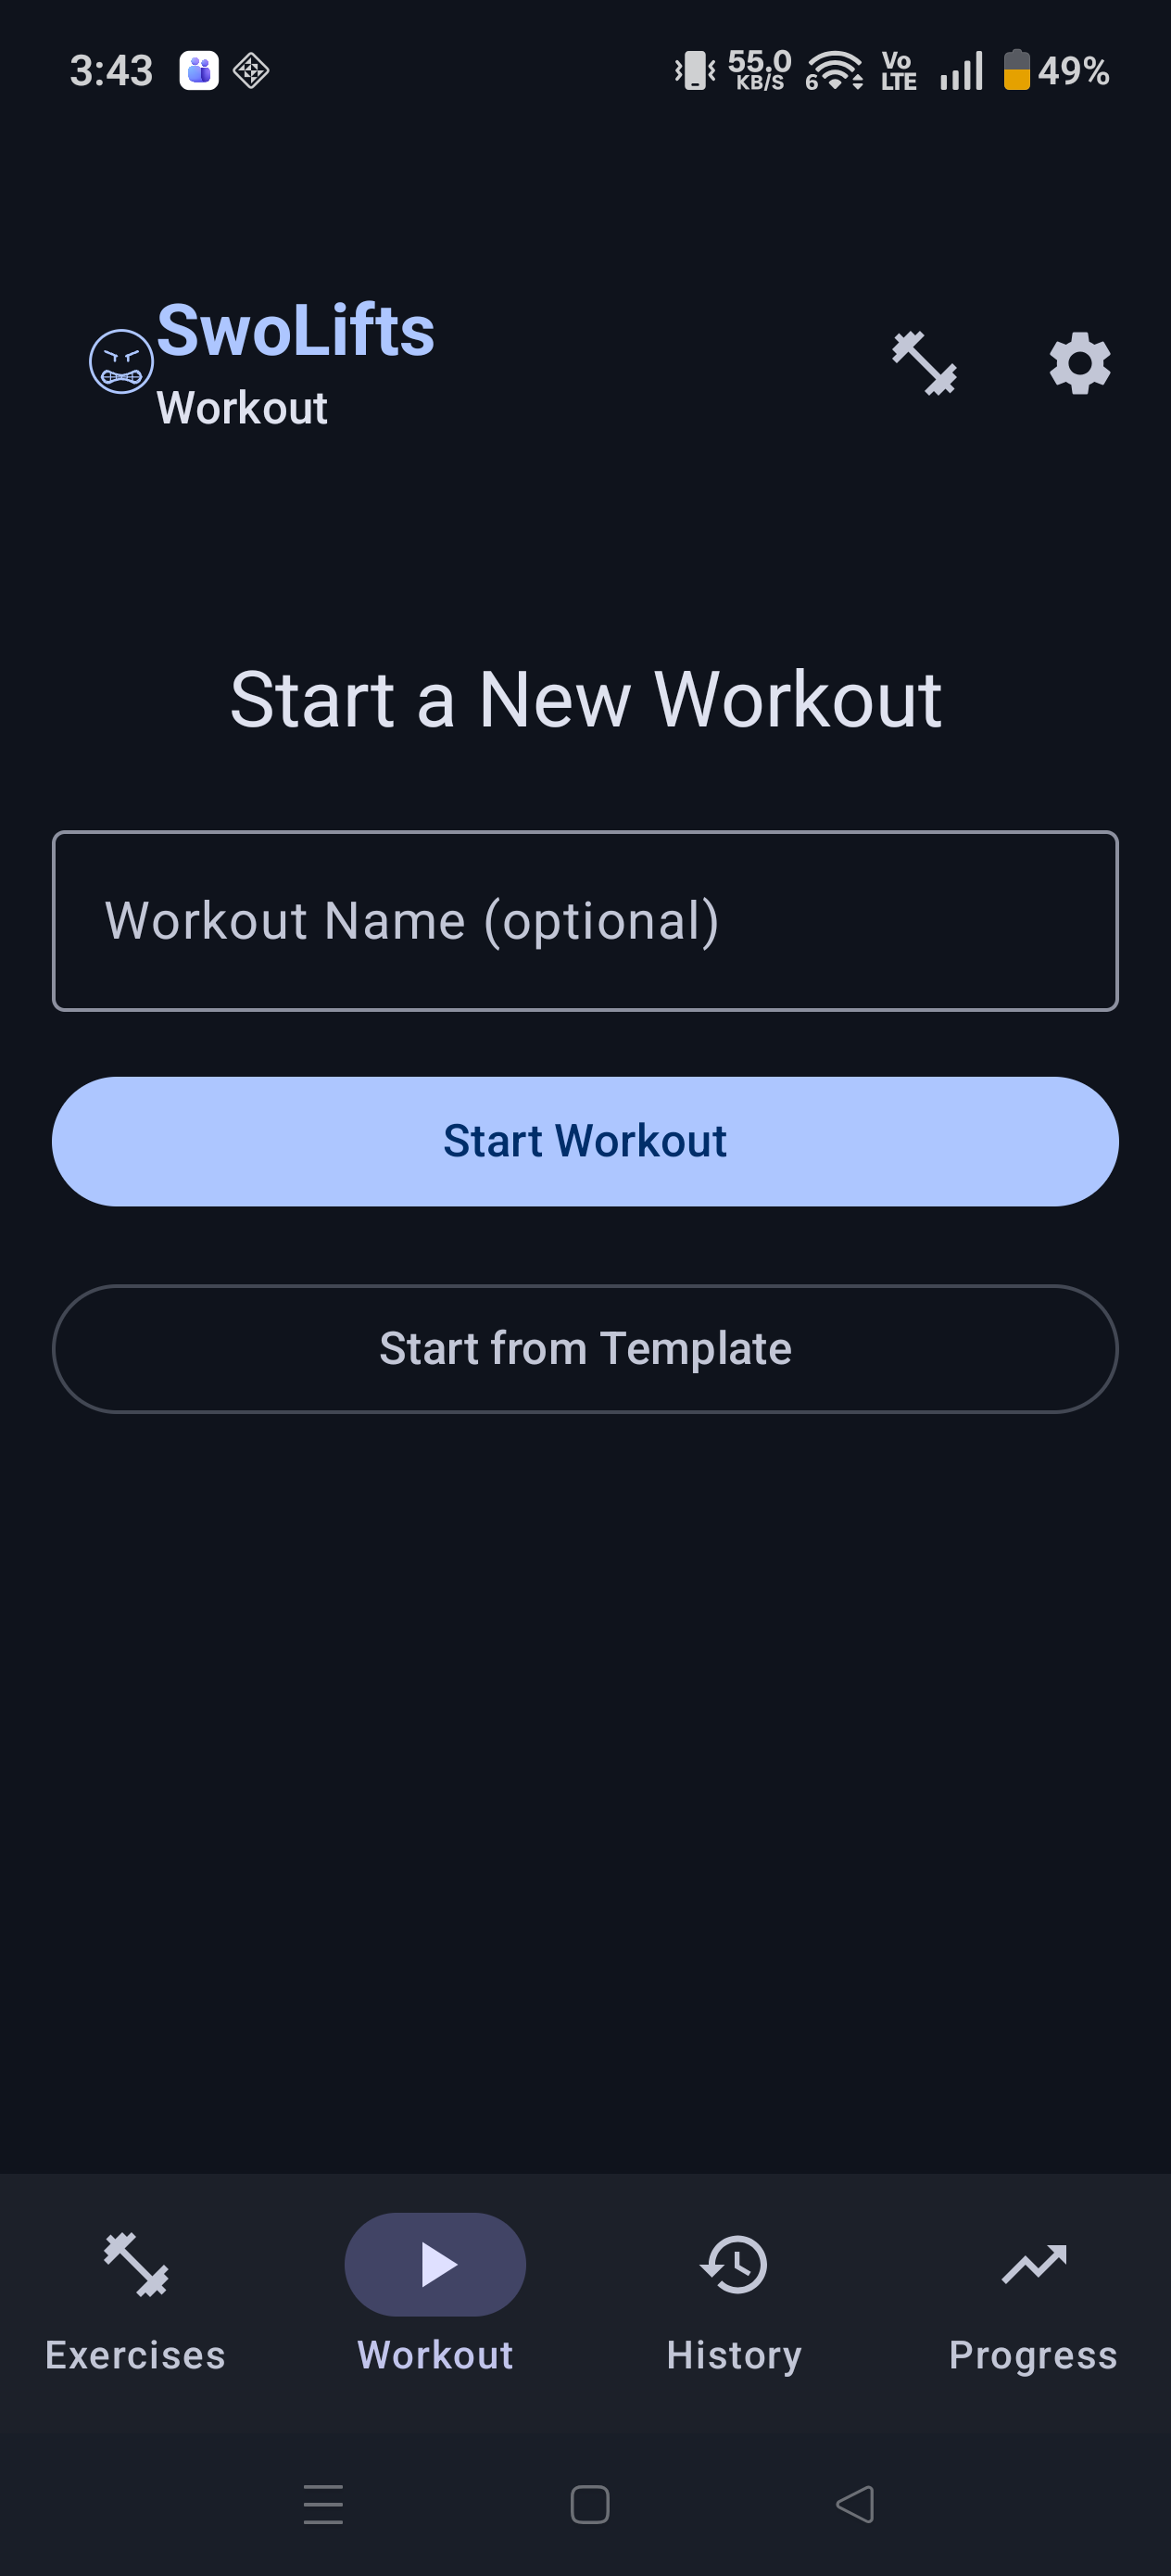
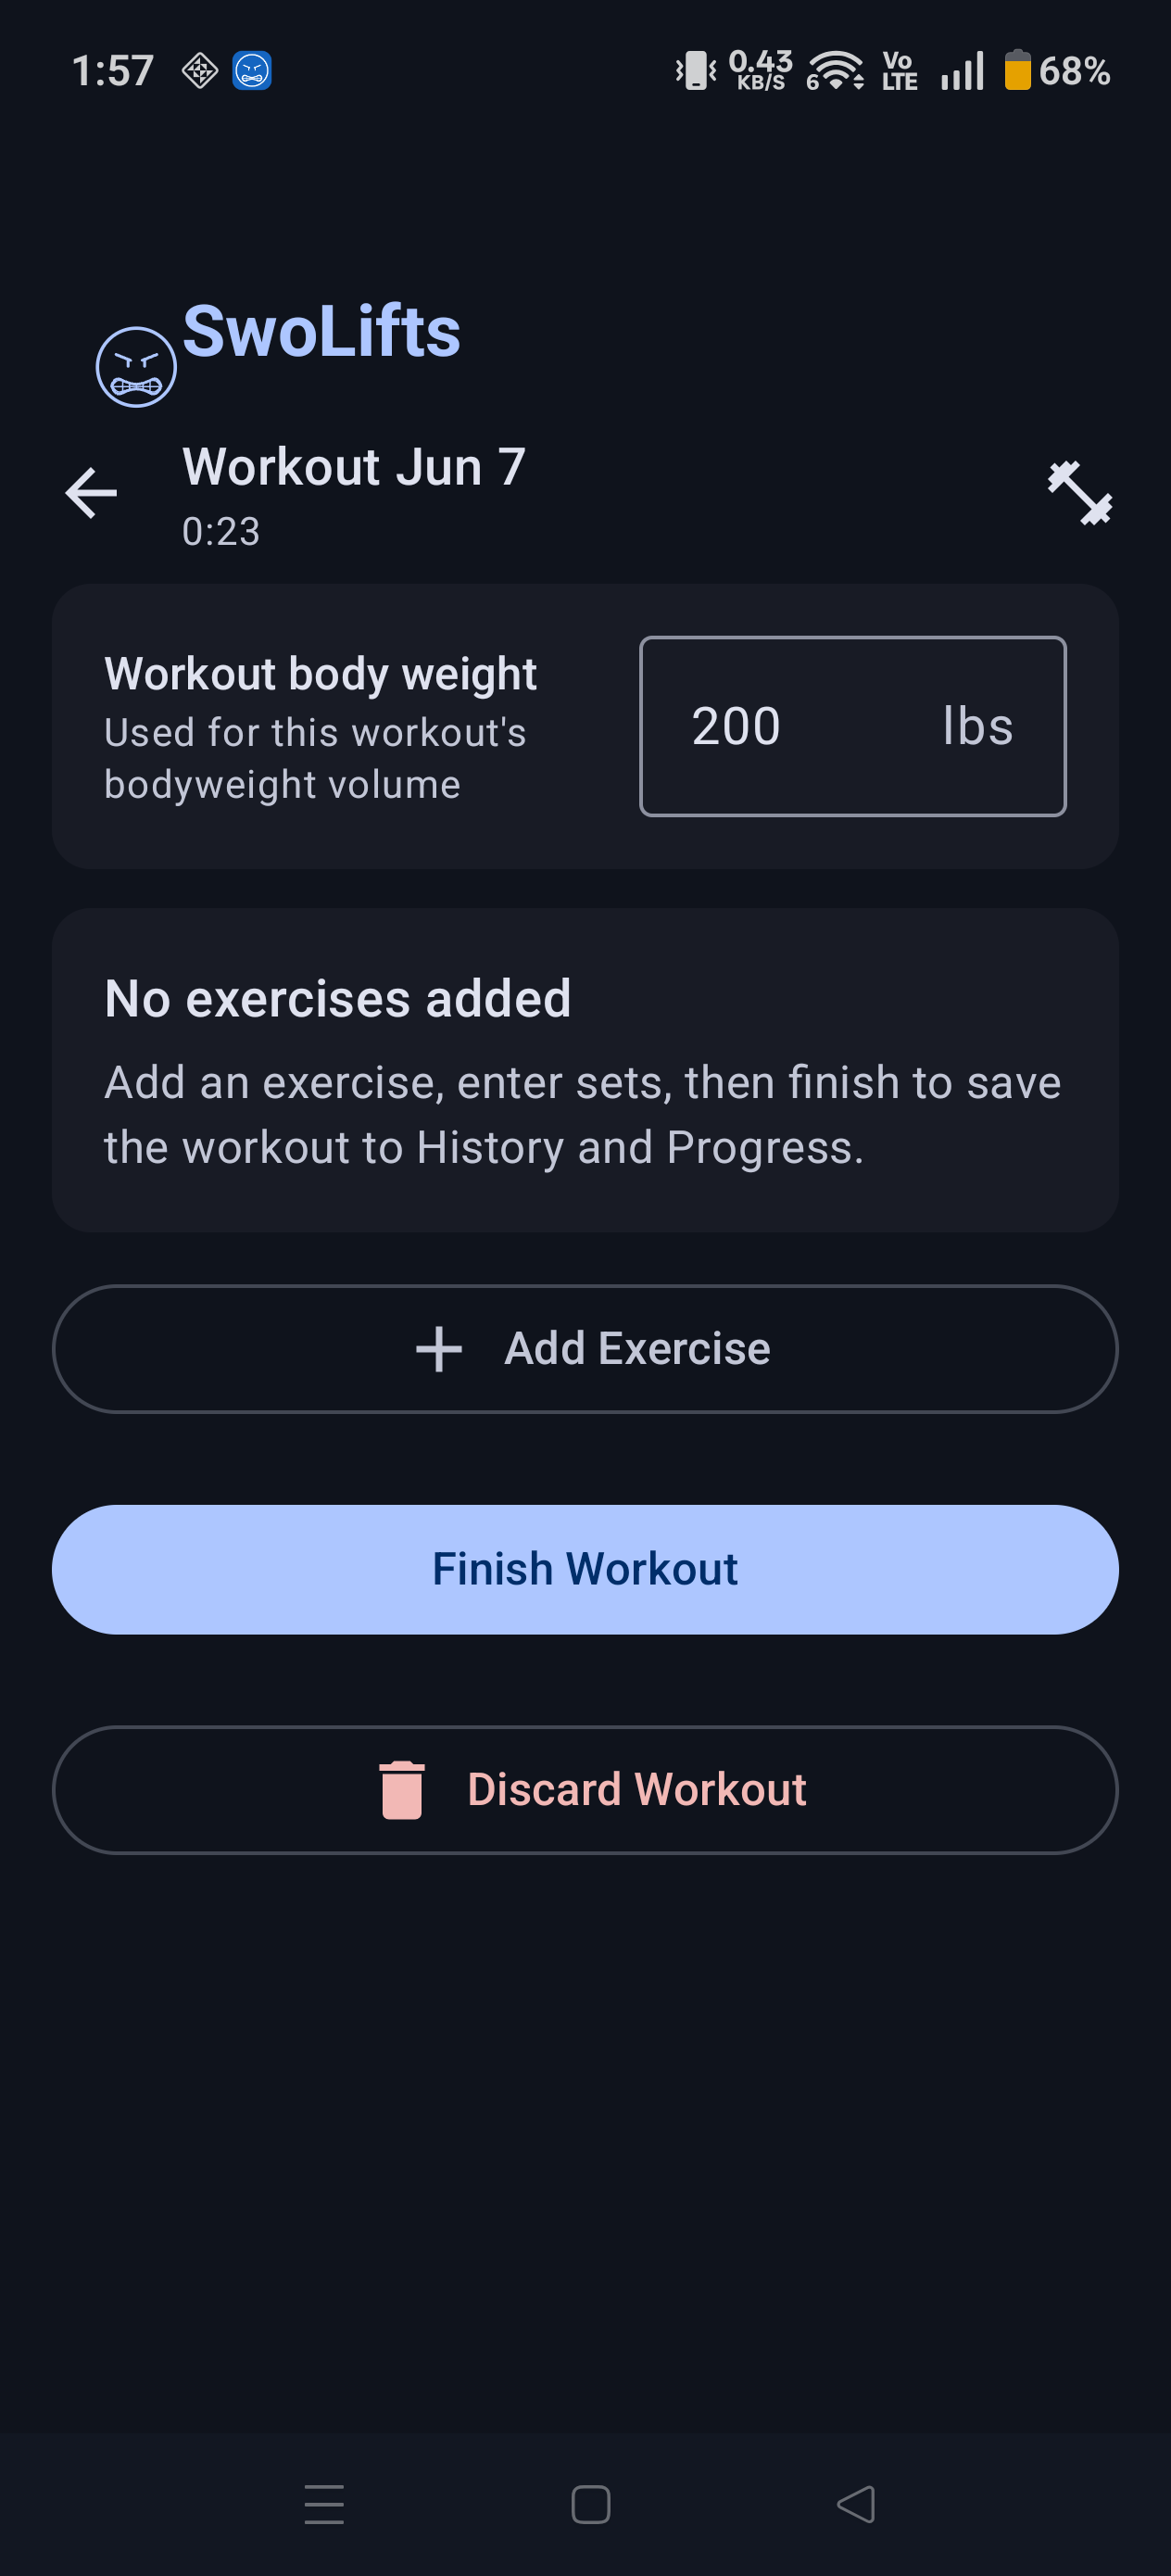
Refresh homepage screenshot from device (#13)

diff --git a/index.html b/index.html
@@ -104,7 +104,7 @@
       <div class="phone-showcase" aria-label="SwoLifts app preview">
         <div class="phone-frame">
           <div class="phone-screen screenshot-screen">
-            <img class="app-screenshot" src="assets/swolifts-workout-screen.png" alt="SwoLifts Workout tab showing the start workout screen">
+            <img class="app-screenshot" src="assets/swolifts-workout-screen.png?v=2" alt="SwoLifts active workout screen">
           </div>
         </div>
       </div>